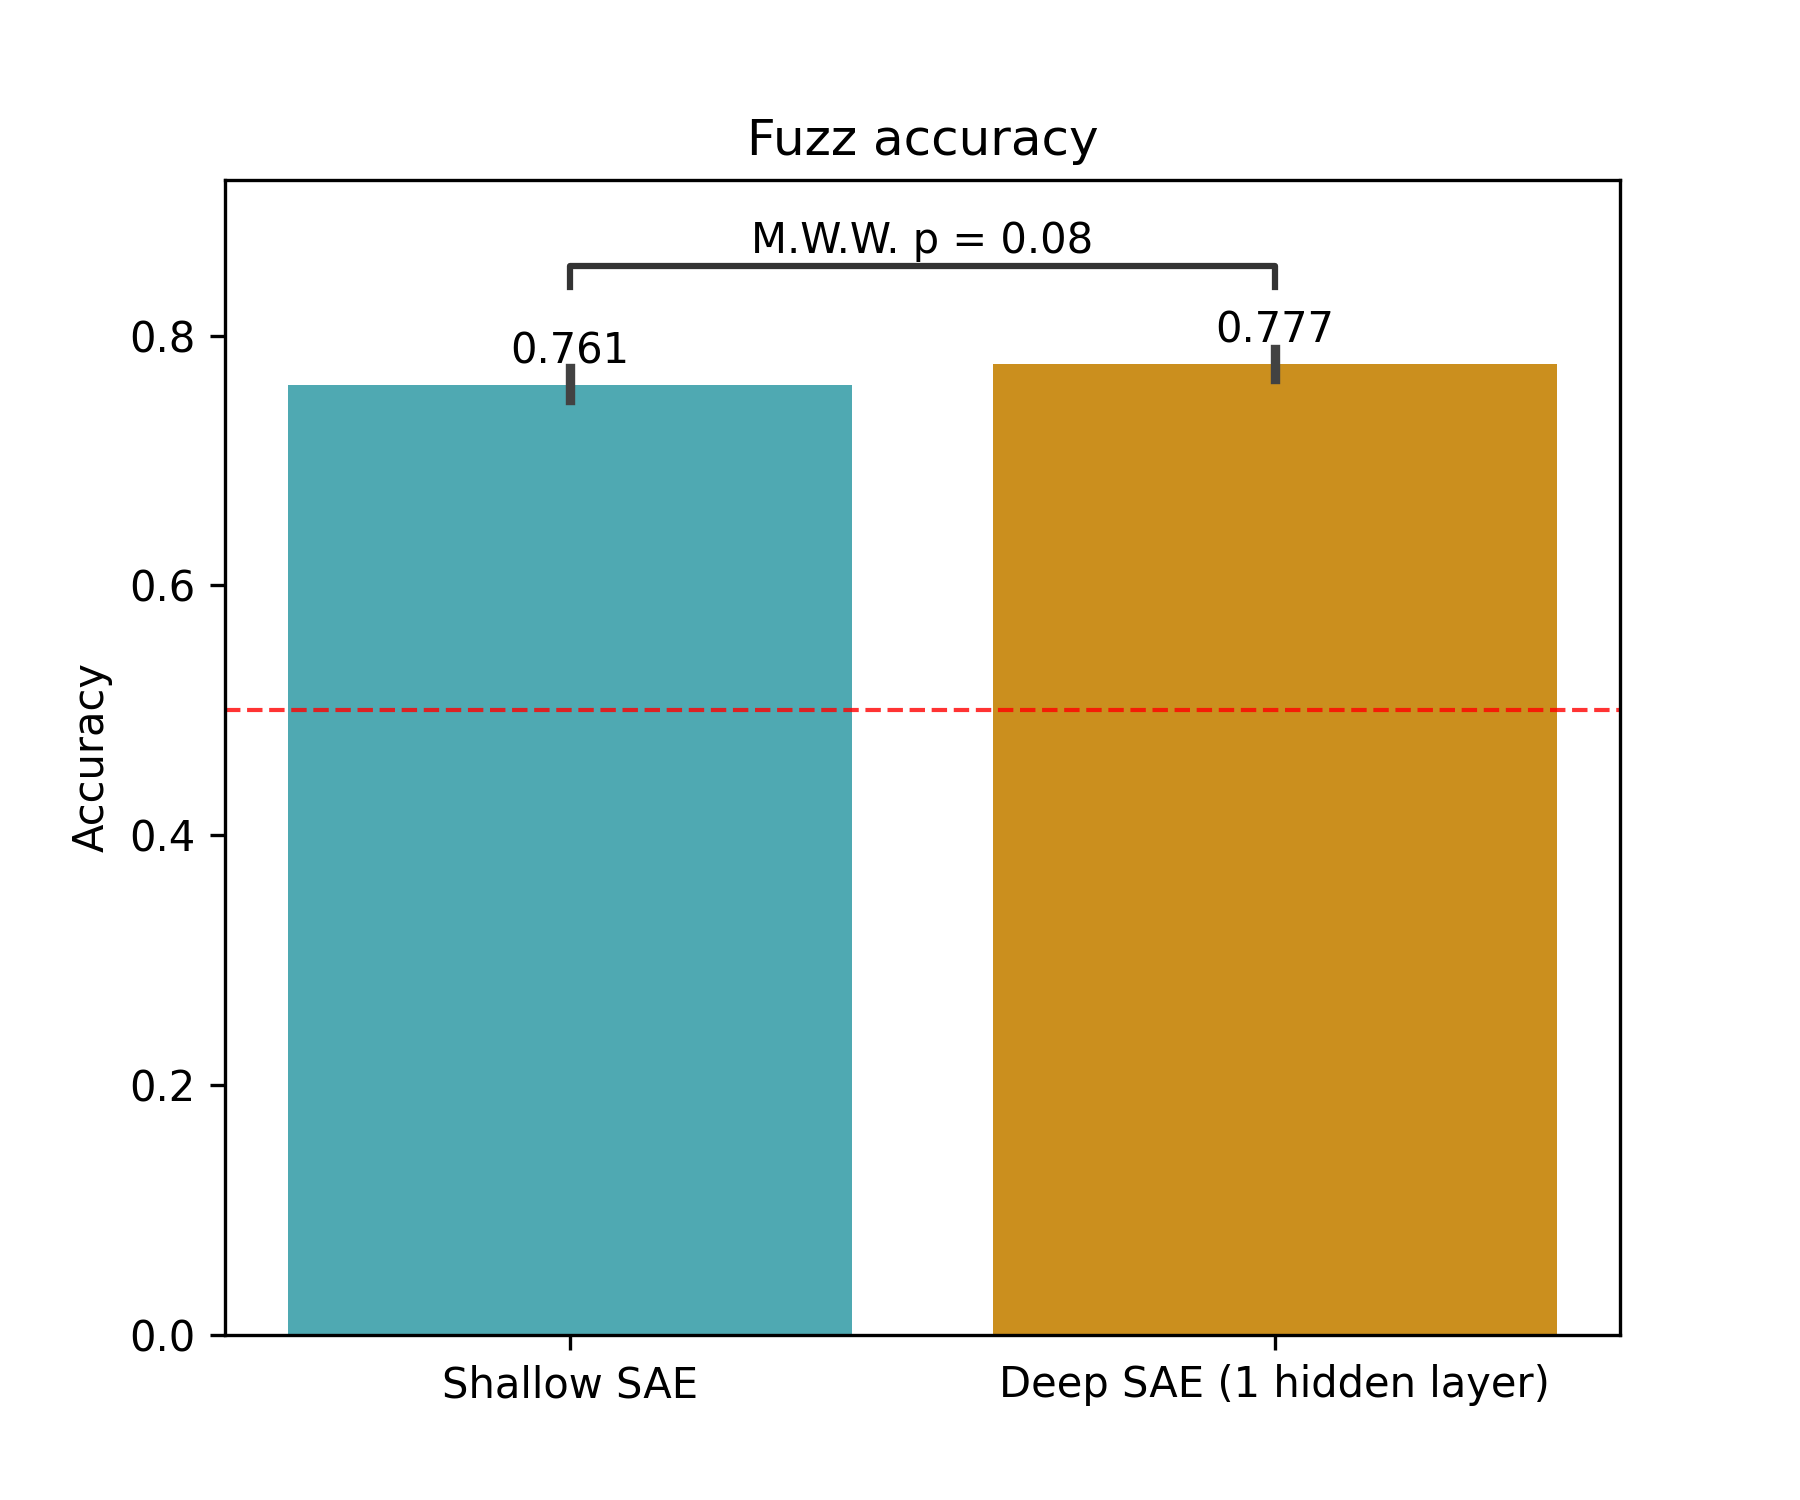
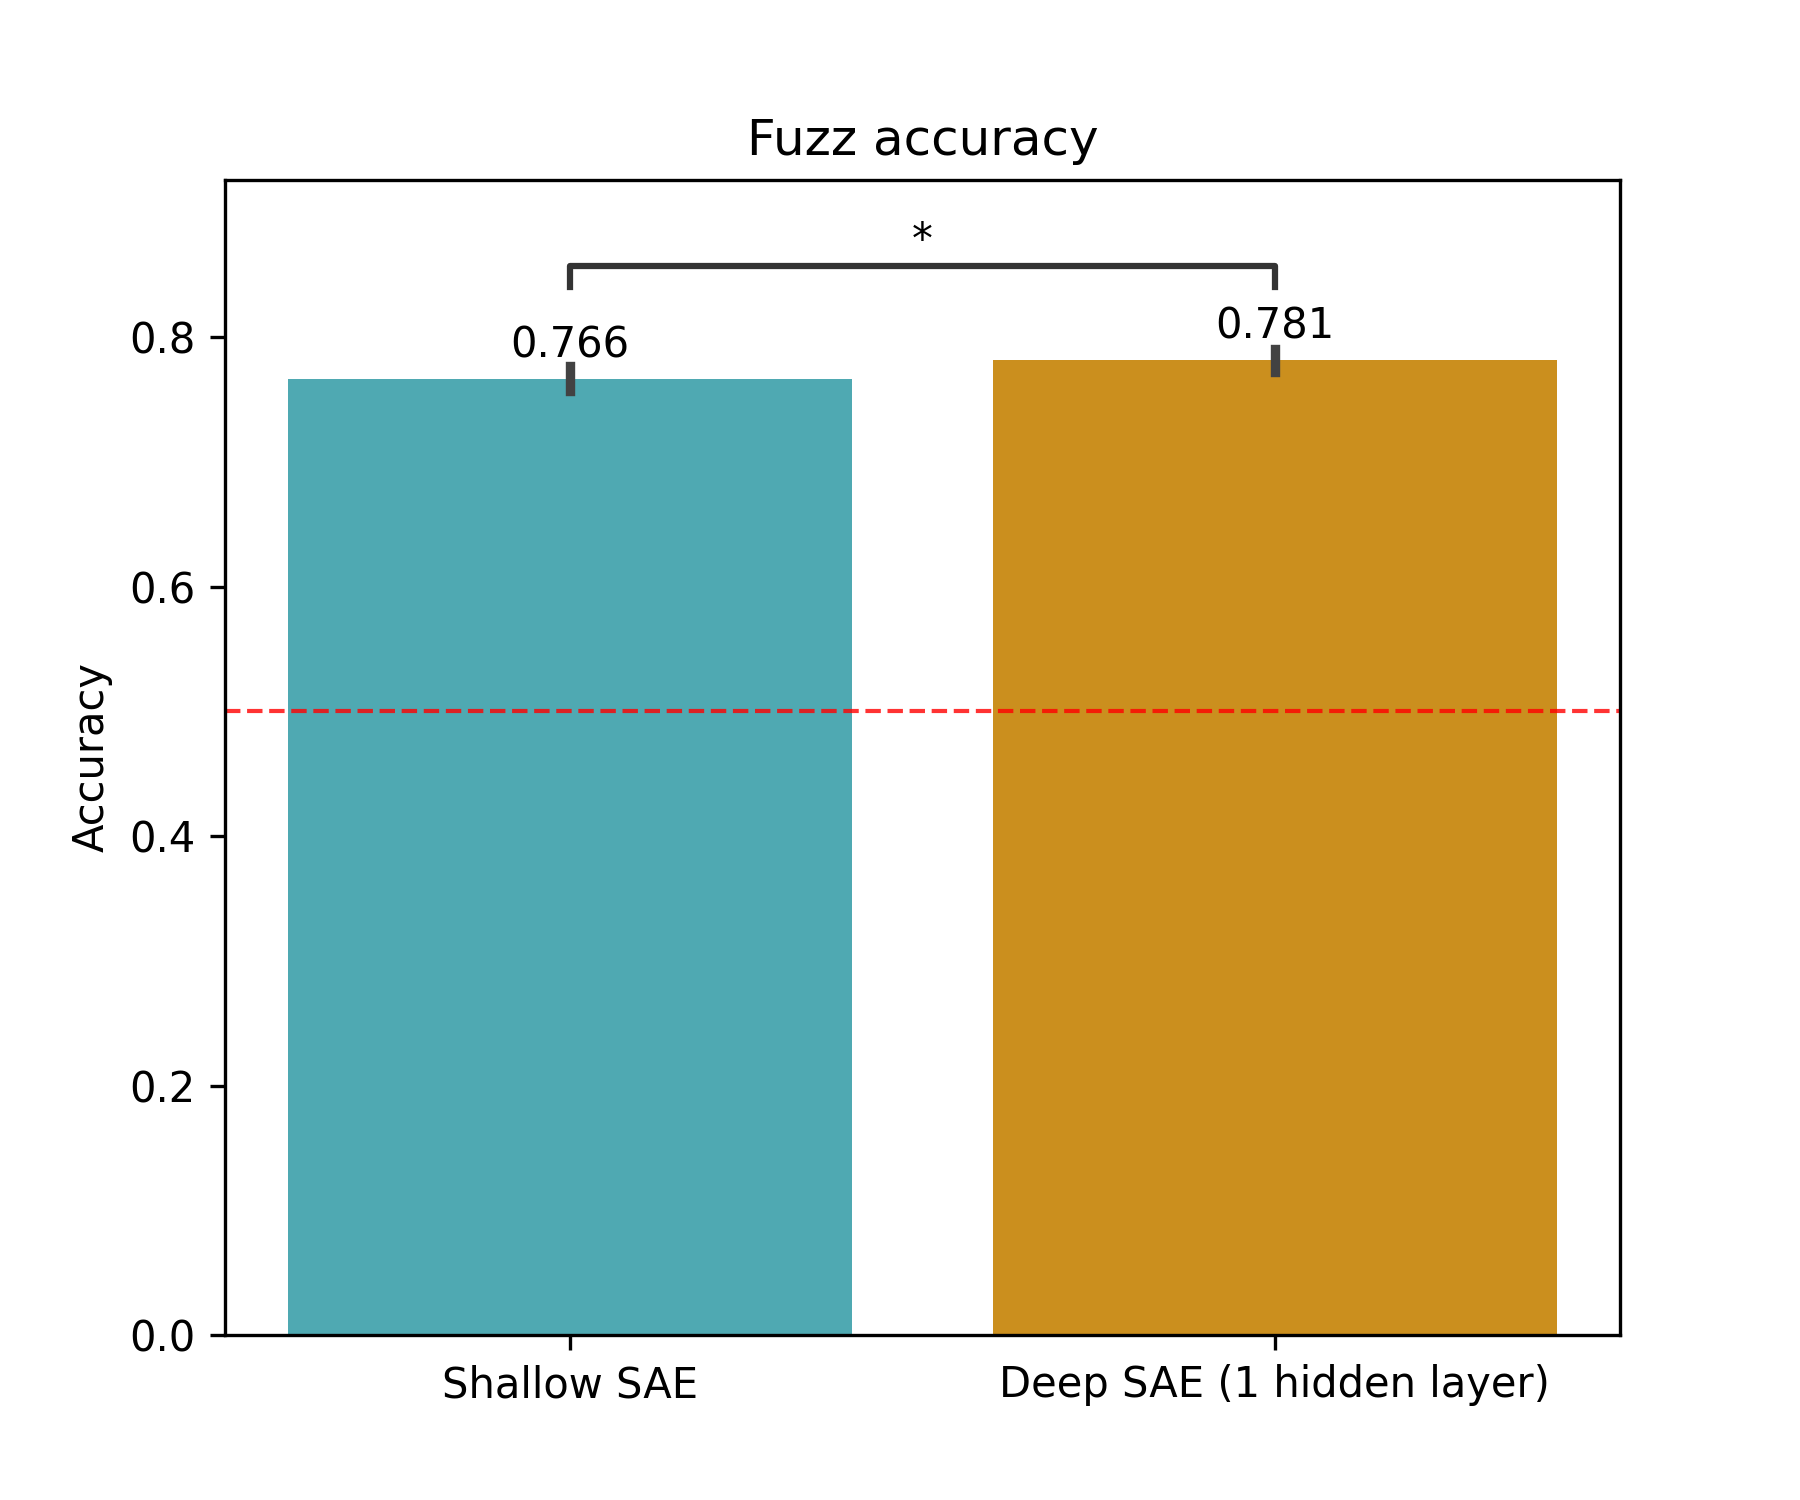
results look good

diff --git a/armaan/generate_scores.py b/armaan/generate_scores.py
@@ -70,7 +70,7 @@ def generate_scores(arch_name, scorer_name):
     )
 
     scorer_pipe = process_wrapper(
-        DetectionScorer(client, tokenizer=dataset.tokenizer, batch_size=1),
+        scorers[scorer_name](client, tokenizer=dataset.tokenizer, batch_size=1),
         preprocess=scorer_preprocess,
         postprocess=scorer_postprocess,
     )
@@ -82,3 +82,8 @@ def generate_scores(arch_name, scorer_name):
     )
     number_of_parallel_latents = 20
     asyncio.run(pipeline.run(number_of_parallel_latents))
+
+if __name__ == "__main__":
+    for arch in arch_name_to_id.keys():
+        generate_scores(arch, "detection")
+        generate_scores(arch, "fuzz")

diff --git a/armaan/eval.py b/armaan/eval.py
@@ -8,7 +8,7 @@ import pandas as pd
 from generate_scores import score_dir
 from utils import results_dir
 
-scorer_name = "fuzz"
+scorer_name = "detection"
 
 
 def load_scores(arch_name):
@@ -87,11 +87,10 @@ annotator = Annotator(
 
 annotator.configure(
     test="Mann-Whitney",
-    text_format="simple",
+    text_format="star",
     hide_non_significant=False,
 )
 annotator.apply_and_annotate()
 results_dir.mkdir(parents=True, exist_ok=True)
 plt.savefig(results_dir / f"{scorer_name}_accuracy.png", dpi=300)
 
-# %%

diff --git a/armaan/utils.py b/armaan/utils.py
@@ -66,7 +66,7 @@ def load_feature_dataset(arch_name):
 
     num_features = 250
     alive_features = torch.load(alive_features_dir / f"{arch_name}.pt")
-    feature_dict = {cfg.submodule_path: alive_features[:num_features]}
+    feature_dict = {cfg.submodule_path: alive_features[num_features:(num_features * 2)]}
 
     tokens = torch.load(data_dir / "tokens.pt")
 

diff --git a/armaan/generate_explanations.py b/armaan/generate_explanations.py
@@ -64,5 +64,5 @@ def generate_explanations(arch_name):
 
 
 if __name__ == "__main__":
-    generate_explanations("2-2")
-    # for arch in arch_name_to_id.keys(): generate_explanations(arch)
+    # generate_explanations("2-2")
+    for arch in arch_name_to_id.keys(): generate_explanations(arch)
